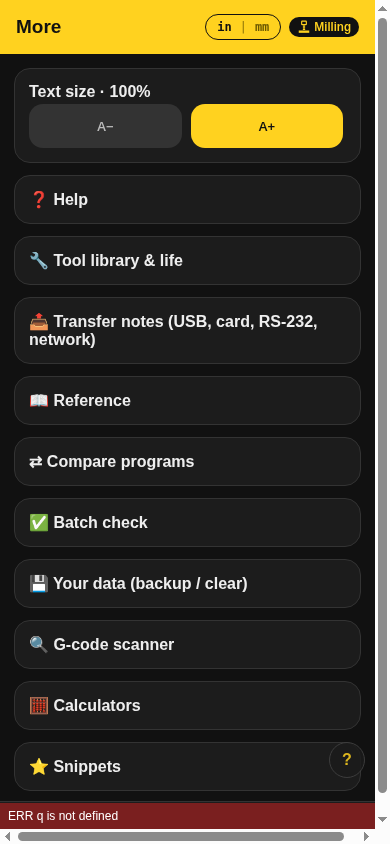
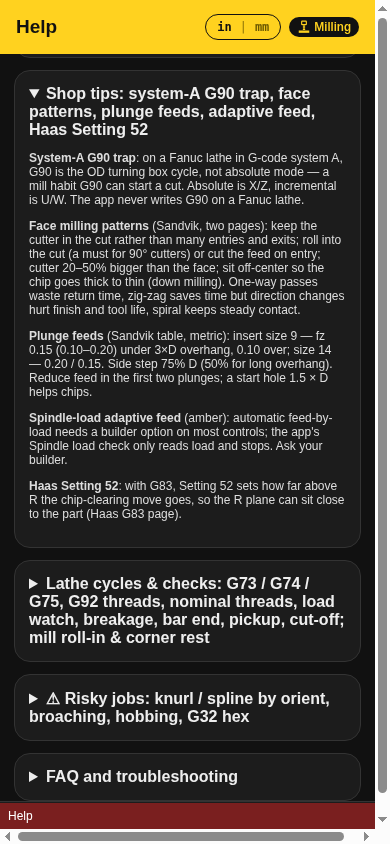
Round 38: risky jobs (orient knurl, M19 spline, keyway/spline broach, EGB hobbing, G32 hex) with parameter-write confirm + restore; user-confirmed codes not flagged as other-control; fix help screenshots; sw mc-v43

diff --git a/index.html b/index.html
@@ -3313,4 +3313,109 @@ THIN.push(['tqskip','Torque-limit skip pickup / cut-off checks','The G31 P99 ski
  ['lload','Spindle load during the cut','The spindle load variable is builder-specific on Fanuc; read timing depends on look-ahead.',[['Haas macros (official)','https://www.haascnc.com/service/online-operator-s-manuals/mill-operator-s-manual/mill---macros.html']],{ops:['lload']}],
  ['crest','Corner rest plunge','Plunge spacing and hook follow Sandvik plunge milling; using plunges for corner rest is shop practice. Check the walls are already finished.',[['Sandvik Coromant plunge milling','https://www.sandvik.coromant.com/en-us/knowledge/milling/plunge-milling']],{ops:['crest']}]);
 </script>
+<script>
+// ---------- round 38: held-back risky jobs (orient indexing, broaching, hobbing, G32 hex)
+const R38L=['knurlx','kwbro','splbro','hob','hexg32'],R38M=['splm19'];
+const ORC='Spindle orient M-code',OPN38='Orient parameter number',OPV='Orient parameter value now',OPS='Orient parameter spindle (P)',CPR='Spindle encoder counts per rev',PWOK='Parameter write OK',HOR='Option: M19 orient to any angle (Haas)',CAM='C-axis mode on / off',CCL38='C-axis clamp / unclamp',HSY='Hobbing sync on / off',HOP='Option: hobbing / EGB';
+const H38={[ORC]:'Fanuc / Haas: M19 — confirm from your manual',[OPN38]:'from your Fanuc parameter manual — often 4077 (stop position shift) or 4031; your builder may differ',[OPV]:'read it on the parameter screen right now — it is put back at the end',[OPS]:'1 = first spindle (Fanuc P word) — confirm',[CPR]:'counts per spindle turn for the orient parameter — often 4096; check by test',[PWOK]:'type exactly: I understand this writes machine parameter P____ (your number)',[HOR]:'type yes only if your Haas has the M19 P/R orient option',[HSY]:'Fanuc EGB: like G81 / G80 (or G81.4 / G80.4) — from your manual',[HOP]:'type yes only if your control has the hobbing / EGB option'};
+const addS38=m=>{if(!m||!m.s)return;const ks=isLT(m.type||'')?[OPN38,OPV,OPS,CPR,PWOK,HOR,HSY,HOP]:[OPN38,OPV,OPS,CPR,PWOK,HOR];ks.forEach(k=>{if(!m.s.find(x=>x.k==k))m.s.push({k,v:'',st:'confirm'})})};S.m.forEach(addS38);
+const _mk38=mk;mk=function(){const m=_mk38.apply(this,arguments);addS38(m);return m};
+const _pk38=pick;pick=function(n,g){_pk38(n,g);const m=S.m.at(-1);if(m){addS38(m);save()}};
+const _ed38=edit;edit=function(i){_ed38(i);const m=S.m[i];if(!m)return;V.querySelectorAll('input[data-j]').forEach(el=>{const x=m.s[+el.dataset.j];if(x&&!x.v&&H38[x.k])el.placeholder=H38[x.k]})};
+const yes38=k=>/^\s*(y|yes|on|1|true)\b/i.test(TV(k)||'');
+const intS=k=>{const v=String(TV(k)??'').trim();return /^-?\d+$/.test(v)?+v:null};
+const pwPhrase=()=>`I understand this writes machine parameter P${intS(OPN38)??'____'}`;
+// what an orient job needs before writing
+const orSetup=()=>{const m=[];if(!/^M\d+$/i.test((TV(ORC)||'').trim()))m.push([ORC,'type your orient M-code (like M19) and confirm']);
+ if(hkC()){if(!yes38(HOR))m.push([HOR,'type yes only if your Haas has the M19 P/R option — without it M19 only goes to zero'])}
+ else{if(intS(OPN38)==null)m.push([OPN38,'the orient stop-position parameter number from your manual']);if(intS(OPV)==null)m.push([OPV,'read the value now on the parameter screen — it is put back at the end']);if(intS(OPS)==null)m.push([OPS,'the spindle number for the P word (1 = first spindle)']);if(!(intS(CPR)>0))m.push([CPR,'counts per spindle turn — check by test (mark, write, orient)']);
+  if((TV(PWOK)||'').trim()!==pwPhrase())m.push([PWOK,'type exactly: '+pwPhrase()])}return m};
+// orient to an angle held in #23 (degrees). Fanuc writes the parameter, Haas uses M19 R.
+function orientTo(L){const oc=TV(ORC).trim().toUpperCase();if(hkC()){L(`${oc} R#23 (ORIENT TO THE ANGLE IN #23 - HAAS OPTION)`);return}
+ const P=intS(OPN38),v0=intS(OPV),c=intS(CPR);L(`#24=${v0}+ROUND[#23*${c}/360] (NEW STOP POSITION IN COUNTS)`);L(`IF[#24GE${c}]THEN#24=#24-${c}`);L('G10 L50 (PARAMETER WRITE ON)');L(`N${P} P${intS(OPS)} R#24`);L('G11 (PARAMETER WRITE OFF)');L('G04 P1000 (LET THE NEW VALUE SETTLE BEFORE ORIENTING)');L(`${oc}`);L.n38++}
+function orientRestore(L){if(hkC())return;const P=intS(OPN38),v0=intS(OPV);L(`(PUT PARAMETER ${P} BACK TO ${v0})`);L('G10 L50');L(`N${P} P${intS(OPS)} R${v0}`);L('G11');L('G04 P1000');L(`${TV(ORC).trim().toUpperCase()} (ORIENT AT THE ORIGINAL POSITION)`)}
+const orHead=L=>{L.n38=1;if(hkC())L('(HAAS M19 R ORIENTS THE SPINDLE - OPTION REQUIRED)');else{L(`(WRITES PARAMETER ${intS(OPN38)} EACH TOOTH AND PUTS IT BACK TO ${intS(OPV)} AT THE END)`);L('(IF THE PROGRAM IS STOPPED PART WAY, PUT THE PARAMETER BACK BY HAND)')}};
+const orChecks=()=>hkC()?[['Haas M19 R option confirmed',yes38(HOR)]]:[['Parameter write confirmed in words ('+pwPhrase()+')',(TV(PWOK)||'').trim()===pwPhrase()],['Original parameter value '+intS(OPV)+' written back at the end',true],['1 s dwell after every write before M19 (forum: value is not taken at once)',true]];
+const teethB=j=>!(Number.isInteger(jv(j,'Teeth'))&&jv(j,'Teeth')>=2&&jv(j,'Teeth')<=360)?'Teeth: a whole number 2–360.':null;
+const passes=(dep,doc)=>Math.max(1,Math.ceil(dep/doc-1e-9));
+// 1 straight knurl / serrations by orient indexing (lathe, no C axis)
+defJ('knurlx',{name:'Straight knurl / serrations by spindle orient (lathe)',lathe:1,re:/straight\s*knurl|knurl\w*\s*(?:by|with)\s*(?:spindle\s*)?orient|serration\w*\s*(?:by|with)?\s*(?:orient|index)|(?:shape|broach)\s*(?:a\s*)?(?:straight\s*)?knurl/,
+ req:['OD','Teeth','Depth','Depth per pass','Z start','Z end','Feed (per min)','Tool'],sug:{},
+ parse:(l,G,n)=>{G('OD',n(/([\d.]+)\s*(?:"|in)?\s*(?:od|dia\w*)/));G('Teeth',n(/(\d+)\s*(?:teeth|serrations|grooves|lines)/));G('Depth',n(/([\d.]+)\s*(?:"|in)?\s*deep/)??n(/depth\s*([\d.]+)/));G('Depth per pass',n(/(?:per\s*pass|doc)\s*([\d.]+)/));const z=l.match(/z\s*(-?[\d.]+)\s*to\s*z\s*(-?[\d.]+)/);G('Z start',z?+z[1]:null);G('Z end',z?+z[2]:null);G('Feed (per min)',n(/(?:feed|f)\s*([\d.]+)\s*(?:ipm|mm\/min|per\s*min)/))},
+ setup:j=>orSetup(),block:j=>teethB(j)||(jv(j,'Z end')>=jv(j,'Z start')?'Z end must be left of Z start (stroke toward the chuck).':jv(j,'Z start')<=0?'Z start must be in front of the face (positive Z) so the plunge is in air.':!(jv(j,'Depth per pass')>0&&jv(j,'Depth per pass')<=jv(j,'Depth'))?'Depth per pass: more than 0, not more than the depth.':passes(jv(j,'Depth'),jv(j,'Depth per pass'))>50?'More than 50 passes — raise the depth per pass.':null),
+ gen:(j,L)=>{const D=jv(j,'OD'),N=jv(j,'Teeth'),dep=jv(j,'Depth'),dp=jv(j,'Depth per pass'),np=passes(dep,dp),zs=jv(j,'Z start'),ze=jv(j,'Z end'),F=jv(j,'Feed (per min)');lhdr(L,3300,'STRAIGHT KNURL BY ORIENT');L('(HIGH RISK - SPINDLE MUST HOLD AGAINST THE CUT; LIGHT PASSES; DRY RUN FIRST)');orHead(L);L(`${lt2(jv(j,'Tool'))} (FIXED SHAPING TOOL, CUTTING EDGE ON CENTER)`);L('M05');
+  L('#21=0 (TOOTH COUNTER)');L(`WHILE[#21LT${N}]DO1`);L(`#23=#21*360/${N} (ANGLE OF THIS TOOTH)`);orientTo(L);for(let p=1;p<=np;p++){const x=D-2*Math.min(dep,p*dp);L(`G00 X${f4(D+0.1)} Z${f4(zs)}`);L(`G00 X${f4(x)} (PASS ${p} OF ${np})`);L(`G98 G01 Z${f4(ze)} F${f4(F)} (STROKE)`);L(`G00 X${f4(D+0.1)}`);L(`G00 Z${f4(zs)}`)}L('G99');L('#21=#21+1');L('END1');orientRestore(L);lend(L);stk31(j,D/2,ze-0.5,0);return 1},
+ checks:j=>[...orChecks(),['Spindle stopped (M05) and only oriented — no turning while shaping',true],['Tool center height and edge shape are yours',true]]});
+// 2 mill spline / internal slots by M19 re-orient
+defJ('splm19',{name:'Internal spline / slots by M19 re-orient (mill)',re:/spline\w*\s*(?:by|with|using)\s*(?:m19|orient)|(?:m19|orient)\w*\s*(?:spline|broach)|broach\w*\s*(?:a\s*)?(?:spline|keyway|slots?)\s*(?:on|in)\s*(?:the\s*)?mill|mill\s*(?:internal\s*)?spline/,
+ req:['Center X','Center Y','Teeth','Start Ø','Final Ø','Depth per pass','Z top','Z bottom','Tip at orient 0','Angle direction','Feed','Tool','Work offset'],sug:{'Clear Z':0.1},choices:{'Tip at orient 0':['+X','-X','+Y','-Y'],'Angle direction':['CCW seen from above','CW seen from above']},
+ parse:(l,G,n)=>{const c=l.match(/center\s*(?:at\s*)?x\s*(-?[\d.]+)\s*,?\s*y\s*(-?[\d.]+)/);G('Center X',c?+c[1]:null);G('Center Y',c?+c[2]:null);G('Teeth',n(/(\d+)\s*(?:teeth|slots|splines)/));G('Start Ø',n(/(?:start|bore)\s*(?:ø|dia\w*)?\s*([\d.]+)/));G('Final Ø',n(/(?:final|end|major)\s*(?:ø|dia\w*)?\s*([\d.]+)/));G('Depth per pass',n(/(?:per\s*pass|doc)\s*([\d.]+)/));G('Z top',n(/z\s*top\s*(-?[\d.]+)/));G('Z bottom',n(/z\s*(?:bottom|end)\s*(-?[\d.]+)/));G('Feed',n(/(?:feed|f)\s*([\d.]+)/))},
+ setup:j=>orSetup(),block:j=>teethB(j)||(jv(j,'Final Ø')<=jv(j,'Start Ø')?'Final Ø must be bigger than the start Ø.':jv(j,'Z bottom')>=jv(j,'Z top')?'Z bottom must be below Z top.':!(jv(j,'Depth per pass')>0)?'Depth per pass must be more than 0.':passes((jv(j,'Final Ø')-jv(j,'Start Ø'))/2,jv(j,'Depth per pass'))>100?'More than 100 passes — raise the depth per pass.':null),
+ gen:(j,L)=>{const cx=jv(j,'Center X'),cy=jv(j,'Center Y'),N=jv(j,'Teeth'),dep=(jv(j,'Final Ø')-jv(j,'Start Ø'))/2,dp=jv(j,'Depth per pass'),np=passes(dep,dp),zt=jv(j,'Z top'),zb=jv(j,'Z bottom'),cz=zt+(jv(j,'Clear Z')||0.1),F=jv(j,'Feed'),T=jv(j,'Tool');
+  const t0={'+X':0,'+Y':90,'-X':180,'-Y':270}[jv(j,'Tip at orient 0')],sg=/^CW/.test(jv(j,'Angle direction'))?-1:1;
+  hdr(L,4980,'SPLINE BY M19 RE-ORIENT');L('(HIGH RISK - BROACH TOOL IN THE SPINDLE, TIP AT THE START Ø WHEN ON CENTER)');orHead(L);L(`T${T} M06`);L(`${offCode(jv(j,'Work offset'))} G00 G90 X${f4(cx)} Y${f4(cy)}`);L(`G43 H${T} Z${f4(cz)}`);
+  L('#21=0 (TOOTH COUNTER)');L(`WHILE[#21LT${N}]DO1`);L(`#23=#21*360/${N} (ORIENT ANGLE)`);L(`#25=${t0}+${sg}*#23 (DIRECTION THE TIP POINTS)`);orientTo(L);
+  for(let p=1;p<=np;p++){const d=Math.min(dep,p*dp);L(`G00 X[${f4(cx)}+${f4(d)}*COS[#25]] Y[${f4(cy)}+${f4(d)}*SIN[#25]] (PASS ${p} OF ${np})`);L(`G01 Z${f4(zb)} F${f4(F)} (STROKE DOWN)`);L(`G01 X${f4(cx)} Y${f4(cy)} (BACK TO CENTER BEFORE LIFTING)`);L(`G00 Z${f4(cz)}`)}
+  L('#21=#21+1');L('END1');orientRestore(L);endP(L);const R=jv(j,'Final Ø')/2+0.5;j.stock=[cx-R,cy-R,zb-0.25,cx+R,cy+R,zt]},
+ checks:j=>[...orChecks(),['Tip direction at orient 0 and the angle direction are yours (watch an M19 first)',true],['Tool goes back to center before every lift',true],['Spindle never turns while broaching — orient only',true]]});
+// 3 keyway broach on lathe (C clamp)
+const cSetup=()=>{const m=[];if(!pair(CAM))m.push([CAM,'type on / off from your manual']);if(!pair(CCL38))m.push([CCL38,'type clamp / unclamp from your manual']);return m};
+defJ('kwbro',{name:'Keyway broach (lathe, C clamped)',lathe:1,re:/keyway\s*broach\w*|broach\w*\s*(?:a\s*)?keyway|keyway\s*(?:on|in)\s*(?:the\s*)?lathe/,
+ req:['Length','Start Ø','End Ø','Depth per pass','Feed (per min)','C angle','Tool'],sug:{'Overrun':0.1,'Clear Z':0.5},
+ parse:(l,G,n)=>{G('Length',n(/([\d.]+)\s*(?:"|in)?\s*long/)??n(/length\s*([\d.]+)/));G('Start Ø',n(/start\s*(?:ø|dia\w*)?\s*([\d.]+)/));G('End Ø',n(/(?:end|final)\s*(?:ø|dia\w*)?\s*([\d.]+)/));G('Depth per pass',n(/(?:per\s*pass|doc)\s*([\d.]+)/));G('Feed (per min)',n(/(?:feed|f)\s*([\d.]+)\s*(?:ipm|mm\/min|per\s*min)/));G('C angle',n(/\bc\s*(-?[\d.]+)/))},
+ setup:j=>cSetup(),block:j=>jv(j,'End Ø')<=jv(j,'Start Ø')?'End Ø must be bigger than the start Ø (internal keyway).':!(jv(j,'Depth per pass')>0)?'Depth per pass must be more than 0.':passes((jv(j,'End Ø')-jv(j,'Start Ø'))/2,jv(j,'Depth per pass'))>400?'More than 400 passes — raise the depth per pass.':!(jv(j,'Length')>0)?'Length must be more than 0.':null,
+ gen:(j,L)=>{const s=jv(j,'Start Ø'),dep=(jv(j,'End Ø')-s)/2,dp=jv(j,'Depth per pass'),np=passes(dep,dp),cm=pair(CAM),cl=pair(CCL38),cz=jv(j,'Clear Z')||0.5,ze=-(jv(j,'Length')+(jv(j,'Overrun')||0));lhdr(L,3310,'KEYWAY BROACH');L(`(${np} PASSES OF ${f4(dp)} - SPINDLE CLAMPED IN C - HIGH RISK)`);L(`${lt2(jv(j,'Tool'))} (BROACH TOOL)`);L(`${cm.on} (C-AXIS MODE ON)`);L(`G00 C${f4(jv(j,'C angle'))}`);L(`${cl.on} (SPINDLE CLAMP ON)`);L(`G00 Z${f4(cz)}`);L(`G00 X${f4(s)}`);
+  L('#21=1 (PASS COUNTER)');L(`WHILE[#21LE${np}]DO1`);L(`#22=${f4(s)}+2*${f4(dp)}*#21 (X OF THIS PASS)`);L(`IF[#22GT${f4(jv(j,'End Ø'))}]THEN#22=${f4(jv(j,'End Ø'))}`);L('G00 X#22');L(`G98 G01 Z${f4(ze)} F${f4(jv(j,'Feed (per min)'))} (STROKE)`);L(`G01 X${f4(s)} (OFF THE CUT)`);L(`G00 Z${f4(cz)}`);L('#21=#21+1');L('END1');L('G99');L(`${cl.off} (SPINDLE CLAMP OFF)`);L(`${cm.off} (C-AXIS MODE OFF)`);lend(L);stk31(j,jv(j,'End Ø')/2+0.5,ze-0.25,0);return 1},
+ checks:j=>[['C-axis and clamp codes are yours',!!(pair(CAM)&&pair(CCL38))],['Tool backs off to the start Ø before each return stroke',true],['Feed in per minute (G98), back to G99 at the end',true]]});
+// 4 internal spline broach with C indexing
+defJ('splbro',{name:'Internal spline broach with C index (lathe)',lathe:1,re:/spline\s*broach\w*|broach\w*\s*(?:an?\s*)?(?:internal\s*)?spline|multi\s*-?\s*tooth\s*broach|broach\w*\s*\d+\s*(?:teeth|slots)/,
+ req:['Teeth','Length','Start Ø','End Ø','Depth per pass','Feed (per min)','First C','Tool'],sug:{'Overrun':0.1,'Clear Z':0.5},
+ parse:(l,G,n)=>{G('Teeth',n(/(\d+)\s*(?:teeth|slots|splines)/));G('Length',n(/([\d.]+)\s*(?:"|in)?\s*long/)??n(/length\s*([\d.]+)/));G('Start Ø',n(/start\s*(?:ø|dia\w*)?\s*([\d.]+)/));G('End Ø',n(/(?:end|final)\s*(?:ø|dia\w*)?\s*([\d.]+)/));G('Depth per pass',n(/(?:per\s*pass|doc)\s*([\d.]+)/));G('Feed (per min)',n(/(?:feed|f)\s*([\d.]+)\s*(?:ipm|mm\/min|per\s*min)/));G('First C',n(/(?:first|start)\s*c\s*(-?[\d.]+)/))},
+ setup:j=>cSetup(),block:j=>teethB(j)||(jv(j,'End Ø')<=jv(j,'Start Ø')?'End Ø must be bigger than the start Ø.':!(jv(j,'Depth per pass')>0)?'Depth per pass must be more than 0.':passes((jv(j,'End Ø')-jv(j,'Start Ø'))/2,jv(j,'Depth per pass'))>400?'More than 400 passes — raise the depth per pass.':null),
+ gen:(j,L)=>{const N=jv(j,'Teeth'),s=jv(j,'Start Ø'),dep=(jv(j,'End Ø')-s)/2,dp=jv(j,'Depth per pass'),np=passes(dep,dp),cm=pair(CAM),cl=pair(CCL38),cz=jv(j,'Clear Z')||0.5,ze=-(jv(j,'Length')+(jv(j,'Overrun')||0)),c0=jv(j,'First C');lhdr(L,3320,'SPLINE BROACH WITH C INDEX');L(`(${N} TEETH, ${np} PASSES EACH - EVERY TOOTH GETS ONE PASS BEFORE GOING DEEPER)`);L(`${lt2(jv(j,'Tool'))} (BROACH TOOL)`);L(`${cm.on} (C-AXIS MODE ON)`);L(`G00 Z${f4(cz)}`);L(`G00 X${f4(s)}`);
+  L('#21=1 (PASS)');L(`WHILE[#21LE${np}]DO1`);L(`#22=${f4(s)}+2*${f4(dp)}*#21`);L(`IF[#22GT${f4(jv(j,'End Ø'))}]THEN#22=${f4(jv(j,'End Ø'))}`);L('#23=0 (TOOTH)');L(`WHILE[#23LT${N}]DO2`);L(`${cl.off} (UNCLAMP TO INDEX)`);L(`G00 C[${f4(c0)}+#23*360/${N}]`);L(`${cl.on} (CLAMP BEFORE CUTTING)`);L('G00 X#22');L(`G98 G01 Z${f4(ze)} F${f4(jv(j,'Feed (per min)'))} (STROKE)`);L(`G01 X${f4(s)}`);L(`G00 Z${f4(cz)}`);L('#23=#23+1');L('END2');L('#21=#21+1');L('END1');L('G99');L(`${cl.off}`);L(`${cm.off} (C-AXIS MODE OFF)`);lend(L);stk31(j,jv(j,'End Ø')/2+0.5,ze-0.25,0);return 1},
+ checks:j=>[['C clamped for every stroke, unclamped only to index',true],['C-axis and clamp codes are yours',!!(pair(CAM)&&pair(CCL38))]]});
+// 5 live-tool gear hobbing (Fanuc EGB option only)
+defJ('hob',{name:'Live-tool gear hobbing (spur, Fanuc EGB option)',lathe:1,re:/hob(?:bing)?\b|gear\s*hob\w*|hob\s*(?:a\s*)?gear|cut\s*(?:a\s*)?(?:spur\s*)?gear\s*(?:with\s*)?(?:a\s*)?(?:hob|live)/,
+ req:['Teeth','Hob starts','Gear OD','Tooth depth','Depth per pass','Z start','Z end','Hob RPM','Feed (per min)','Tool'],sug:{},
+ parse:(l,G,n)=>{G('Teeth',n(/(\d+)\s*teeth/));G('Hob starts',n(/(\d+)\s*(?:start|thread)\w*\s*hob/)??n(/hob\s*starts?\s*(\d+)/));G('Gear OD',n(/([\d.]+)\s*(?:"|in)?\s*(?:od|gear\s*od|blank)/));G('Tooth depth',n(/(?:tooth\s*)?depth\s*([\d.]+)/));G('Depth per pass',n(/(?:per\s*pass|doc)\s*([\d.]+)/));const z=l.match(/z\s*(-?[\d.]+)\s*to\s*z\s*(-?[\d.]+)/);G('Z start',z?+z[1]:null);G('Z end',z?+z[2]:null);G('Hob RPM',n(/(\d+)\s*rpm/));G('Feed (per min)',n(/(?:feed|f)\s*([\d.]+)\s*(?:ipm|mm\/min|per\s*min)/))},
+ setup:j=>{if(hkC())return[];const m=[];if(!yes38(HOP))m.push([HOP,'type yes only if your control has the hobbing / EGB option']);if(!pair(HSY))m.push([HSY,'type on / off from your manual (like G81 / G80)']);if(!pair(LIVE))m.push([LIVE,'type start / stop from your manual']);if(!pair(CAM))m.push([CAM,'type on / off from your manual']);return m},
+ block:j=>hkC()?'Haas: no hobbing / electronic gear box function is documented for Haas lathes — not written.':!opt('live')?'Needs live tooling — tick the live tool option for this machine first.':!(Number.isInteger(jv(j,'Teeth'))&&jv(j,'Teeth')>=1&&jv(j,'Teeth')<=1000)?'Teeth: a whole number 1–1000.':!(Number.isInteger(jv(j,'Hob starts'))&&jv(j,'Hob starts')!=0&&Math.abs(jv(j,'Hob starts'))<=21)?'Hob starts: whole number, not 0, ±21 max (sign sets C direction).':jv(j,'Z end')>=jv(j,'Z start')?'Z end must be left of Z start.':!(jv(j,'Depth per pass')>0&&jv(j,'Depth per pass')<=jv(j,'Tooth depth'))?'Depth per pass: more than 0, not more than the tooth depth.':null,
+ gen:(j,L)=>{const sy=pair(HSY),lv=pair(LIVE),cm=pair(CAM),D=jv(j,'Gear OD'),h=jv(j,'Tooth depth'),np=passes(h,jv(j,'Depth per pass'));lhdr(L,3330,'GEAR HOBBING - LIVE TOOL');L('(VERY HIGH RISK - SPUR GEAR ONLY; HOB AXIS, CENTER HEIGHT AND SYNC MASTER ARE BUILDER SETUP)');L(`${lt2(jv(j,'Tool'))} (HOB IN THE LIVE TOOL HOLDER)`);L(`${cm.on} (C-AXIS MODE ON)`);L(`G00 X${f4(D+0.2)} Z${f4(jv(j,'Z start'))}`);
+  L(`${sy.on} T${jv(j,'Teeth')} L${jv(j,'Hob starts')} (SYNC START - T TEETH, L HOB STARTS, SIGN = C DIRECTION)`);L(`${lv.on.replace('<RPM>',jv(j,'Hob RPM'))} (HOB TURNING)`);L('G04 P2000 (LET THE SYNC SETTLE)'.replace('P2000',hkC()?'P2.':'P2000'));
+  for(let p=1;p<=np;p++){const x=D-2*Math.min(h,p*jv(j,'Depth per pass'));L(`G00 X${f4(x)} (PASS ${p} OF ${np})`);L(`G98 G01 Z${f4(jv(j,'Z end'))} F${f4(jv(j,'Feed (per min)'))}`);L(`G00 X${f4(D+0.2)}`);L(`G00 Z${f4(jv(j,'Z start'))}`)}
+  L('G99');L(`${lv.off} (HOB STOP)`);L(`${sy.off} (SYNC CANCEL)`);L(`${cm.off} (C-AXIS MODE OFF)`);lend(L);stk31(j,D/2,jv(j,'Z end')-0.5,0);return 1},
+ checks:j=>[['Hobbing / EGB option confirmed',yes38(HOP)],['Sync code is yours ('+((pair(HSY)||{}).on||'?')+')',!!pair(HSY)],['Spur only — helical needs Q and P on the sync line (not written)',true]]});
+// 6 hex on a 2-axis lathe by synced G32 moves (approximate)
+defJ('hexg32',{name:'Hex / polygon by synced G32 (2-axis lathe, approximate)',lathe:1,re:/(?:hex|polygon|flats?)\w*\s*(?:by|with|using)\s*(?:synced\s*|sync\w*\s*)?(?:g32|thread\w*)|g32\s*(?:hex|polygon)|(?:turn|cut)\s*(?:a\s*)?(?:hex|polygon)\s*(?:on\s*(?:a\s*)?)?(?:2\s*-?\s*axis|two\s*-?\s*axis)/,
+ req:['Across flats','Flats','Bar Ø','Depth per pass','Z start','Z end','Z step','RPM','Tool'],sug:{'Segments per flat':6},
+ parse:(l,G,n)=>{G('Across flats',n(/([\d.]+)\s*(?:"|in)?\s*(?:across\s*flats|af|a\/f)/));G('Flats',n(/(\d+)\s*(?:flats|sides)/)??(/\bhex/.test(l)?6:null));G('Bar Ø',lbar(l,n));G('Depth per pass',n(/(?:per\s*pass|doc)\s*([\d.]+)/));const z=l.match(/z\s*(-?[\d.]+)\s*to\s*z\s*(-?[\d.]+)/);G('Z start',z?+z[1]:null);G('Z end',z?+z[2]:null);G('Z step',n(/z\s*step\s*([\d.]+)/));G('RPM',n(/(\d+)\s*rpm/))},
+ block:j=>{if(hkC())return'Haas: G32 exists, but keeping spindle sync across many short G32 blocks is not documented for Haas — not written.';const N=jv(j,'Flats'),k=jv(j,'Segments per flat');if(!(Number.isInteger(N)&&N>=3&&N<=12))return'Flats: a whole number 3–12.';if(!(Number.isInteger(k)&&k>=2&&k<=20&&k%2==0))return'Segments per flat: an even whole number 2–20.';if(jv(j,'Across flats')>=jv(j,'Bar Ø'))return'Across flats must be smaller than the bar.';if(jv(j,'Z end')>=jv(j,'Z start'))return'Z end must be left of Z start.';if(!(jv(j,'Z step')>0&&jv(j,'Depth per pass')>0))return'Z step and depth per pass must be more than 0.';
+  const np=passes((jv(j,'Bar Ø')-jv(j,'Across flats'))/2,jv(j,'Depth per pass')),nz=Math.ceil((jv(j,'Z start')-jv(j,'Z end'))/jv(j,'Z step')-1e-9)+1;if(np*nz*N*k>4000)return`Too long (${np*nz*N*k} sync blocks) — raise Z step or depth per pass, or lower segments.`;if(!(jv(j,'RPM')>0&&jv(j,'RPM')<=200))return'RPM: 1–200 here — X reverses '+(2*N)+' times a turn; keep it slow.';return null},
+ gen:(j,L)=>{const N=jv(j,'Flats'),k=jv(j,'Segments per flat'),af=jv(j,'Across flats')/2,B=jv(j,'Bar Ø'),np=passes(B/2-af,jv(j,'Depth per pass')),zs=jv(j,'Z start'),ze=jv(j,'Z end'),zst=jv(j,'Z step'),dt=360/(N*k),half=Math.PI/N;
+  lhdr(L,3340,'POLYGON BY SYNCED G32 - APPROXIMATE');L('(THIN SOURCE - VERIFY ON YOUR MACHINE. DRY RUN WITH NO PART AND WATCH X FOLLOW)');L('(G32 X-ONLY LEAD IS WRITTEN AS RADIUS PER TURN - CHECK YOUR CONTROL; WRONG LEAD = WRONG SHAPE)');L(`${lt2(jv(j,'Tool'))}`);L(`G97 S${jv(j,'RPM')} M03 (SLOW, CONSTANT RPM)`);
+  for(let p=1;p<=np;p++){const a=Math.max(af,B/2-p*jv(j,'Depth per pass'));const r=t=>a/Math.cos(t);
+   for(let z=zs,first=1;first||z>=ze-1e-9;z-=zst,first=0){const zz=Math.max(z,ze);L(`G00 X${f4(B+0.1)} Z${f4(zz)} (PASS ${p} - APOTHEM ${f4(a)})`);L(`G00 X${f4(2*r(-half))} (TO A CORNER)`);
+    for(let f=0;f<N;f++)for(let s=1;s<=k;s++){const t1=-half+(s-1)*2*half/k,t2=-half+s*2*half/k,dr=Math.abs(r(t2)-r(t1)),lead=dr*360/dt;L(`G32 X${f4(2*r(t2))} F${f4(Math.max(lead,0.0001))}`)}
+    L(`G00 X${f4(B+0.1)}`);if(zz<=ze+1e-9)break}}
+  L(`G00 Z${f4(zs+0.1)}`);lend(L);stk31(j,B/2,ze-0.5,0);return 1},
+ checks:j=>[['Approximate shape — servo lag rounds the corners; measure the first part',true],['Fanuc G32 blocks back to back keep sync (no other block between them)',true],['RPM kept slow',jv(j,'RPM')<=200]]});
+// routing + simulator
+const _j2op38=j2Op;j2Op=function(t){const l=String(t||'').toLowerCase();for(const op of(isL()?R38L:R38M)){if(J2[op].re.test(l))return op}return _j2op38(t)};
+const _ip38=interp;interp=function(lines,o){if(J&&lines&&(R38L.includes(J.op)||R38M.includes(J.op))){const j=J,out=[];let skip=0;lines.forEach(l=>{const u=l.replace(/\([^)]*\)/g,'').trim();
+  if(/^G10 L5|^G11\b|^N\d+ P\d+ R|^#|^WHILE|^END\d|^IF\[|^N7\d{3}$/.test(u)||/^M\d+(\s+R#\d+)?$/.test(u)&&/M19|^M\d+ R#/.test(u)){out.push('('+u+')');return}
+  out.push(l.replace(/X\[([-\d.]+)\+([-\d.]+)\*COS\[#25\]\] Y\[([-\d.]+)\+([-\d.]+)\*SIN\[#25\]\]/,(m,a,b,c)=>`X${f4(+a+ +b)} Y${c}`).replace(/X#22/,'X'+f4(jv(j,'End Ø')||0)).replace(/C\[([-\d.]+)\+#23\*360\/\d+\]/,'C$1'))});lines=out}return _ip38.call(this,lines,o)};
+Object.entries({'OD':'in','Teeth':'count','Depth per pass':'in, radius','Feed (per min)':'in/min (G98)','Start Ø':'in','Final Ø':'in','End Ø':'in','Z top':'in','Z bottom':'in','Tip at orient 0':'watch an M19 to see','Angle direction':'which way the spindle angle counts','Length':'in','C angle':'deg','First C':'deg','Overrun':'in past the length','Hob starts':'count, sign = C direction','Gear OD':'in','Tooth depth':'in, from your gear data','Hob RPM':'rpm','Across flats':'in','Flats':'count','Z step':'in, under the tool width','Segments per flat':'even count'}).forEach(([k,v])=>{if(!(k in UNIT))UNIT[k]=v});
+TLNEARL.push(['Straight knurl by orient','straight knurl by orient',/knurl|serration/],['Keyway broach','keyway broach',/keyway|broach/],['Spline broach with C','spline broach',/spline|broach/],['Gear hobbing','gear hobbing',/hob|gear/],['Hex by G32','hex by g32',/hex|polygon|flat/]);
+TLNEAR.push(['Spline by M19 re-orient','spline by m19',/spline|broach|m19|orient/]);
+LOG.unshift(['2.9 · Oct 13','Risky jobs (strong cautions): straight knurl by spindle orient, mill spline by M19 re-orient (Fanuc parameter write needs a typed confirm and is put back at the end; Haas M19 R option), keyway broach and C-indexed spline broach on lathes, live-tool gear hobbing (Fanuc EGB option only), approximate hex by synced G32 (Fanuc only).']);
+const _ct38=curTopic;curTopic=function(){const t=_ct38();return J&&(R38L.includes(J.op)||R38M.includes(J.op))&&/^New job/.test($('#ttl').textContent)?'jobs38':t};
+HELP.splice(Math.max(0,HELP.findIndex(h=>h[0]=='faq')),0,['jobs38','⚠ Risky jobs: knurl / spline by orient, broaching, hobbing, G32 hex',()=>`<p><b>Read this first.</b> These jobs push the machine past normal turning and milling. A wrong setting can break the tool, the spindle orient or the part. Every machine-specific code, number and direction is red until you type it. Dry run every one away from the part, with the feed override low, and stand at the stop button.</p><p><b>Parameter writes (Fanuc)</b>: knurl and spline by orient move the spindle stop position by writing a parameter with G10 L50 before each M19. You type the parameter number, its value now, the spindle P number, the counts per turn, and the sentence “I understand this writes machine parameter P____” with your number. The program puts the original value back at the end. If you stop the program part way, put the value back by hand. Parameter numbers differ between controls and builders (4077 and 4031 are common) — find yours in your parameter manual. Some controls only take the new value after about a second, so the app waits 1 s after each write.</p><p><b>Haas</b> uses M19 R (angle) instead — only with the M19 orient option; without it M19 goes to zero only.</p><p><b>Broaching on a lathe</b>: keyway and spline broach clamp the spindle in C mode (your codes), feed per minute, back off the cut before each return stroke. Light passes — the broach tool takes the whole load.</p><p><b>Hobbing</b> needs the Fanuc hobbing / electronic gear box option and a live-tool hob that the control can sync. The app writes your sync code with T (teeth) and L (hob starts, sign = C direction). Spur gears only. Haas: not offered.</p><p><b>Hex by G32</b> (approximate, thin source): the tool moves in and out in X while synced to the spindle, using many short G32 moves. Fanuc only, slow RPM. The X lead convention (radius per turn) and servo lag decide the shape — measure the first part.</p>`]);
+THIN.push(['orient','Spindle orient parameter writes','G10 L50 parameter writes are Fanuc standard, but which parameter moves the M19 stop, its units, and the need to wait after G11 come from a Practical Machinist thread and machine-written knowledge articles. Verify on your machine.',[['Practical Machinist: 18i-MB orientation with G10','https://www.practicalmachinist.com/forum/threads/fanuc-18i-mb-spindle-orientation-with-g10.365630/'],['Industrial Monitor Direct: lathe spindle indexing for broaching knurls','https://industrialmonitordirect.com/blogs/knowledgebase/fanuc-custom-macro-indexing-lathe-spindle-for-linear-broaching'],['Haas M19 (official)','https://www.haascnc.com/service/codes-settings.type=mcode.machine=lathe.value=M19.html']],{fan:1,ops:['knurlx','splm19']}],
+ ['broach','Broaching on a lathe','The pass-by-pass broach macro comes from a broach tool maker\'s example (DMG Mori lathe). C-axis and clamp codes are builder-specific.',[['CNC Broach Tools: keyway macro for Fanuc lathes','https://cncbroachtools.com/keyway-macro-program-example-for-cnc-lathes-with-fanuc-controller/']],{ops:['kwbro','splbro']}],
+ ['hobegb','Hobbing with live tools','The G81 T L hobbing sync format is in Fanuc manuals; using it with a live-tool hob on a lathe depends entirely on the builder\'s setup.',[['Fanuc 16i/18i-B connection manual, hobbing (cncmanuals.com copy)','http://www.cncmanuals.com/fanuc/260/series-16i-160i-160is-18i-180i-180is-20i-21i-210i-210is-model-b-connection-manual-function/page/289']],{fan:1,ops:['hob']}],
+ ['hexg32','Hex by synced G32','One forum author; the lead convention for X-only G32 moves and how well the servo follows are machine-dependent.',[['Practical Machinist Fanuc macro archive','https://www.practicalmachinist.com/forum/threads/fanuc-macro-b-program-archive.427555/']],{fan:1,ops:['hexg32']}]);
+const _cc38=ctrlChecks;ctrlChecks=function(t,lathe){const c=_cc38(t,lathe),m=S.m[S.cur];if(!m)return c;const mine=new Set();m.s.forEach(x=>{if(x.st=='user')(String(x.v).toUpperCase().match(/\b[GM]\d+(\.\d)?/g)||[]).forEach(q=>mine.add(q[0]+(q.includes('.')?q.slice(1):q.slice(1).padStart(2,'0'))))});
+ return c.filter(e=>{const mm=/^Codes from a different control: (.*?) \(/.exec(e[0]);return !(mm&&mm[1].split(' ').every(q=>mine.has(q)))})};
+</script>
 </body></html>

diff --git a/test/ui-test33.html b/test/ui-test33.html
@@ -1,0 +1,44 @@
+<!doctype html><body><pre id="o"></pre><iframe id="f" src="../index.html?v=46" style="width:390px;height:844px"></iframe><script>
+const out=[],log=(n,ok,x)=>out.push((ok?'PASS ':'FAIL ')+n+(ok||!x?'':' :: '+x));let step=0;
+
+
+
+const LJ=[['knurlx','straight knurl by orient 1.0 od 30 teeth 0.02 deep per pass 0.005 z0.1 to z-0.5 feed 20 ipm t3'],
+['kwbro','keyway broach 1.0 long start 0.75 end 0.875 per pass 0.002 feed 300 ipm c0 t4'],
+['splbro','spline broach 6 teeth 1.0 long start 0.75 end 0.85 per pass 0.005 feed 200 ipm first c0 t4'],
+['hob','gear hob 20 teeth hob starts 1 2.0 gear od tooth depth 0.1 per pass 0.05 z0.2 to z-0.6 300 rpm feed 2 ipm t5'],
+['hexg32','hex by synced g32 0.75 across flats 6 flats 1.0 bar per pass 0.05 z0 to z-0.2 z step 0.1 60 rpm t1']];
+const MJ=[['splm19','spline by m19 center x0 y0 8 teeth start 0.75 final 0.8 per pass 0.01 z top 0 z bottom -0.75 feed 20 t6 g54']];
+f.onload=()=>{const w=f.contentWindow,d=w.document;if(step==0){step=1;w.localStorage.clear();w.location.reload();return}
+ const errs=[];w.onerror=m=>errs.push(String(m));
+ setTimeout(()=>{const E=x=>w.eval(x);try{E("NOASK=1");w.confirm=()=>true;
+  const setv=(k,v)=>E(`(()=>{let x=S.m[S.cur].s.find(x=>x.k==${JSON.stringify(k)});if(!x){x={k:${JSON.stringify(k)},v:''};S.m[S.cur].s.push(x)}if(${JSON.stringify(v)}!==null)x.v=${JSON.stringify(v)};x.st='user';save()})()`);
+  const okall=()=>E("S.m[S.cur].s.forEach(x=>{if(x.st=='confirm'&&x.v)x.st='user'});save()");
+  const go=t=>{w.tab('new');d.querySelector('#q').value=t;w.go();E('show()');return{op:E('J&&J.op'),code:E('J&&J.code?txt().join("\\n"):""'),out:d.querySelector('#out').innerText}};
+  const ref={hob:/Haas: no hobbing/,hexg32:/Haas: G32 exists/};
+  const run=(nm,jobs,hk)=>jobs.forEach(([op,t])=>{const r=go(t),code=r.code;
+    if(hk&&ref[op]){log(`${nm} ${op}: refused on Haas`,r.op==op&&ref[op].test(r.out)&&!code,r.op+' '+r.out.slice(0,200));return}
+    let sim=['x'];try{sim=E('(()=>{const r=interp(txt(),{contact:mkContact(J),lathe:J.lathe});return [r.err,r.alarms.map(a=>a.msg).join(),r.moves.length]})()')}catch(e){sim=[e.message]}
+    const ck=code?E('checks(J).filter(c=>!c[1]).map(c=>c[0])'):['no code: '+r.out.slice(0,400).replace(/\s+/g,' ')];
+    log(`${nm} ${op}: recognised, code written`,r.op==op&&!!code,'op='+r.op+' '+ck.join('|'));if(!code)return;
+    log(`${nm} ${op}: sim runs`,!sim[0]&&!sim[1]&&sim[2]>0,JSON.stringify(sim));log(`${nm} ${op}: checks pass`,!ck.length,ck.join(' | '));
+    const C={knurlx:hk?/M19 R#23[\s\S]*G98 G01 Z-0\.5 F20\.0[\s\S]*END1/:/G10 L50[^\n]*\nN4077 P1 R#24\nG11[\s\S]*G04 P1000[^\n]*\nM19[\s\S]*END1[\s\S]*N4077 P1 R512\nG11/,
+     splm19:hk?/M19 R#23[\s\S]*COS\[#25\]/:/N4077 P1 R#24[\s\S]*COS\[#25\][\s\S]*N4077 P1 R512/,kwbro:/M210[\s\S]*G00 C0\.0\nM214[\s\S]*G98 G01 Z-1\.1 F300\.0[\s\S]*M216[\s\S]*M211/,
+     splbro:/WHILE\[#23LT6\]DO2\nM216[^\n]*\nG00 C\[0\.0\+#23\*360\/6\]\nM214/,hob:/G81 T20 L1[\s\S]*M213 S300[\s\S]*G80/,hexg32:/G32 X[\d.]+ F[\d.]+\n(G32 X[\d.]+ F[\d.]+\n){30}/};
+    log(`${nm} ${op}: codes`,C[op].test(code),code.split('\n').slice(0,60).join(' / '));
+    if(!hk&&(op=='knurlx'||op=='splm19'))log(`${nm} ${op}: restore is last write`,code.lastIndexOf('R512')>code.lastIndexOf('R#24'));
+  });
+  [['Haas NGC','Haas lathe'],['Fanuc 0i','Fanuc lathe']].forEach(([ctl,nm])=>{const hk=/Haas/.test(nm);w.pick('Generic 2-axis lathe','Lathes');w.cur(E('S.m.length')-1);setv('Control',ctl);setv('Max RPM (G50)','3000');
+   const r0=go(LJ[0][1]);log(nm+' knurl red until setup',!r0.code&&/Spindle orient M-code/.test(r0.out));
+   setv('Spindle orient M-code','M19');if(hk)setv('Option: M19 orient to any angle (Haas)','yes');else{setv('Orient parameter number','4077');setv('Orient parameter value now','512');setv('Orient parameter spindle (P)','1');setv('Spindle encoder counts per rev','4096');
+    setv('Parameter write OK','I understand this writes machine parameter P4078');log(nm+' wrong confirm sentence keeps it red',!go(LJ[0][1]).code);setv('Parameter write OK','I understand this writes machine parameter P4077')}
+   setv('C-axis mode on / off','M210 / M211');setv('C-axis clamp / unclamp','M214 / M216');setv('Live tool start / stop','M213 S<RPM> / M215');setv('Hobbing sync on / off','G81 / G80');setv('Option: hobbing / EGB','yes');E("Object.assign(S.m[S.cur].opt,{live:1});save()");okall();run(nm,LJ,hk)});
+  [['Haas VF-style VMC (generic)','Haas NGC','Haas mill'],['Generic 3-axis VMC','Fanuc 0i','Fanuc mill']].forEach(([p,ctl,nm])=>{const hk=/Haas/.test(nm);w.pick(p,'Vertical mills');w.cur(E('S.m.length')-1);setv('Control',ctl);setv('Spindle orient M-code','M19');
+   if(hk)setv('Option: M19 orient to any angle (Haas)','yes');else{setv('Orient parameter number','4077');setv('Orient parameter value now','512');setv('Orient parameter spindle (P)','1');setv('Spindle encoder counts per rev','4096');setv('Parameter write OK','I understand this writes machine parameter P4077')}
+   const r=go(MJ[0][1]);log(nm+' spline red until tip direction',!r.code);E("J.p['Tip at orient 0']={v:'+X',g:false};J.p['Angle direction']={v:'CCW seen from above',g:false}");okall();
+   const sim=E('(()=>{show();const r=interp(txt(),{contact:mkContact(J)});return [!!J.code,r.err,r.alarms.length]})()');log(nm+' spline written + sim',sim[0]&&!sim[1]&&!sim[2],JSON.stringify(sim));
+   const code=E('txt().join("\\n")'),ck=E('checks(J).filter(c=>!c[1]).map(c=>c[0])');log(nm+' spline checks',!ck.length,ck.join('|'));log(nm+' spline codes',(hk?/M19 R#23[\s\S]*COS\[#25\]/:/N4077 P1 R#24[\s\S]*COS\[#25\][\s\S]*N4077 P1 R512\nG11/).test(code),code.split('\n').join(' / '))});
+  log('hob refused without live option',(()=>{w.pick('Generic 2-axis lathe','Lathes');w.cur(E('S.m.length')-1);setv('Control','Fanuc 0i');setv('Hobbing sync on / off','G81 / G80');setv('Option: hobbing / EGB','yes');setv('Live tool start / stop','M213 S<RPM> / M215');setv('C-axis mode on / off','M210 / M211');okall();const r=go(LJ[3][1]);return !r.code&&/live tool/i.test(r.out)})());
+  log('help jobs38',E("HELP.some(h=>h[0]=='jobs38')"));log('no console errors',!errs.length,errs.join('|'));
+ }catch(e){log('exception',false,e.stack.replace(/\n/g,' | '))}document.getElementById('o').textContent=out.join('\n')},1500)};
+</script></body>

diff --git a/test/ui-test17.html b/test/ui-test17.html
@@ -11,7 +11,7 @@ f.onload=()=>{const w=f.contentWindow,d=w.document;if(step==0){step=1;w.localSto
    E("NOASK=1");w.cur(0);w.ex('G54 T2 6 hole bolt circle 3.0 dia center x0 y0 z0 0 start 15 0.5 deep peck 0.1');d.querySelector('#jn').value='Home test job';w.saveJob();
    d.querySelector('#ttl').click();log('header title tap returns Home + shows recent job',d.querySelector('#ttl').textContent=='Home'&&/Home test job/.test(d.querySelector('#home').textContent));
    log('tab bar unchanged (6 tabs)',[...d.querySelectorAll('.tabs button')].map(b=>b.textContent).join()=='Machines,Build,Editor,Simulate,Library,More');
-   [...d.querySelectorAll('#home .chip')].find(b=>b.textContent=='Help').click();log('Help from Home, all sections',d.querySelector('#ttl').textContent=='Help'&&d.querySelectorAll('#hl details').length==31);
+   [...d.querySelectorAll('#home .chip')].find(b=>b.textContent=='Help').click();log('Help from Home, all sections',d.querySelector('#ttl').textContent=='Help'&&d.querySelectorAll('#hl details').length==32);
    const hq=d.querySelector('#hq');hq.value='G154';hq.dispatchEvent(new Event('input'));log('Help search filters',[...d.querySelectorAll('#hl details')].filter(x=>x.style.display!='none').length>=1&&d.querySelector('#h-faq').style.display=='none');
    log('Help lists job inputs with units',/Bolt circle<\/b> needs: Holes[\s\S]*Dia <span class="s">\(in\)/.test(d.querySelector('#h-build').innerHTML)&&/Swiss-type jobs/.test(d.querySelector('#h-build').textContent));
    w.more();log('Help reachable from More',!![...d.querySelectorAll('.card')].find(c=>/Help/.test(c.textContent)&&/help\(/.test(c.getAttribute('onclick')||'')));

diff --git a/sw.js b/sw.js
@@ -1,2 +1,2 @@
-const C='mc-v42';self.addEventListener('install',e=>e.waitUntil(caches.open(C).then(c=>c.addAll(['./','index.html','manifest.json']))));
+const C='mc-v43';self.addEventListener('install',e=>e.waitUntil(caches.open(C).then(c=>c.addAll(['./','index.html','manifest.json']))));
 self.addEventListener('fetch',e=>e.respondWith(caches.match(e.request).then(r=>r||fetch(e.request))));

diff --git a/docs/sources.md b/docs/sources.md
@@ -416,3 +416,11 @@ All rewritten in our own words; generic Haas / Fanuc 0i only.
 - Spindle load watch: Haas macros chapter #1098; Fanuc var builder-specific → red + THIN.
 - Arc roll-in: Sandvik face-milling page + Caltech PDF (Round 36). Corner rest plunge: Sandvik plunge milling + shop practice → THIN.
 - Unsourced defaults (gray): G74/G75 retract 0.01, feeds 0.002–0.003/rev, RPM 600; G92 min depth 0.002, depth schedule first·√n; load watch feed 0.008; crest hook 0.02, plunge feed 4; roll-in feed 20.
+
+## Round 38 — held-back risky jobs (Oct 13, 2026)
+- Haas M19 P/R orient (official mill + lathe M19 pages): option needed; without it M19 goes to zero only; range 0–360.
+- Fanuc orient by parameter write G10 L50 N____ P1 R____ / G11, ~1 s wait before M19: Practical Machinist "18i-mb spindle orientation with G10" + Industrial Monitor Direct articles (machine-written, counted as one source). Parameter number (4077 / 4031 / builder) → red; original value typed by the user and written back (older controls cannot read parameters; PRM[] only on newer). THIN.
+- Lathe keyway broach macro (passes from start/end Ø, DOC, G98 feed, C mode + brake, back off X before return): CNC Broach Tools Fanuc lathe example (DMG Mori). C-indexed spline broach: same + Fanuc C positioning. THIN, builder codes red.
+- Hobbing sync G81 T L (sign of L = C direction), G80 cancel; Q/P for helical; option: Fanuc 16i/18i-B connection manual p.289, 0i-MC EGB addendum, 15i-MA manual (official copies). Live-tool hob setup is builder-specific → red option + sync code; Haas refused (nothing documented).
+- Hex by synced G32: Practical Machinist macro archive (one author) → THIN; X-only lead convention (radius per turn) not verified → amber; Haas refused.
+- Unsourced defaults: Fanuc 1 s dwell after G11 (forum), knurl/broach overrun 0.1, clear Z 0.5, hex 6 segments per flat, hob 2 s settle dwell.
